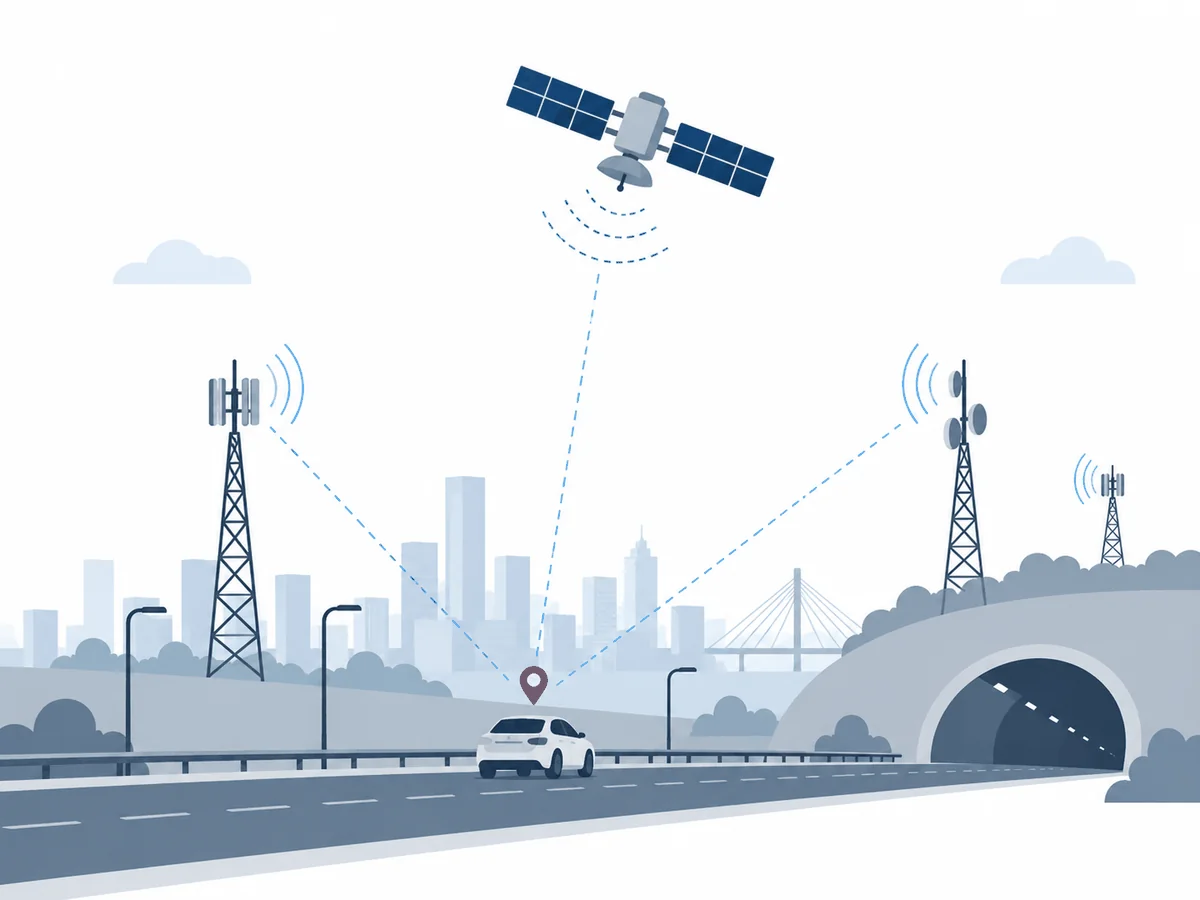
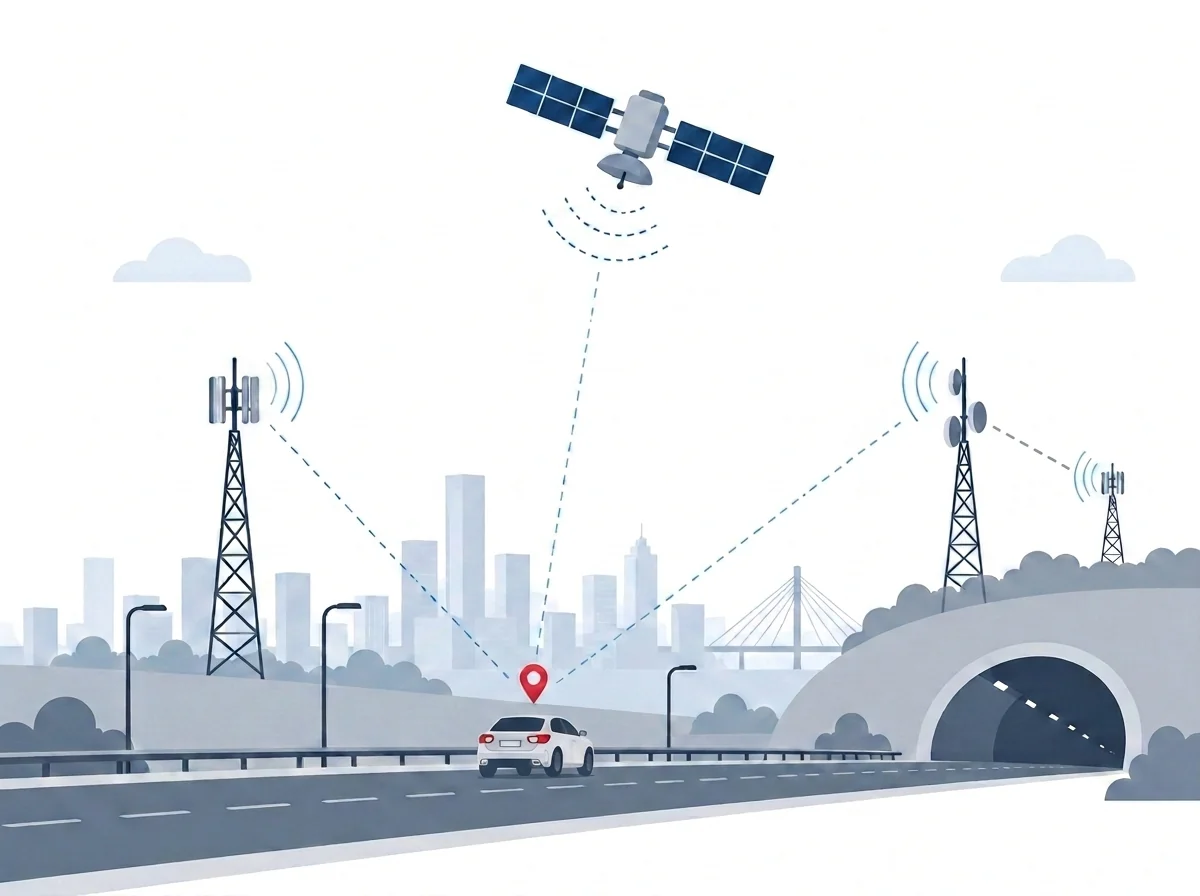
Home page: the updated road picture, with a line from the hilltop mast to the far one
Claude-Session: https://claude.ai/code/session_01C2WViiCTTax6EFyBE8Gxxc

diff --git a/docs/tr/index.html b/docs/tr/index.html
@@ -20,7 +20,7 @@
 <main>
 <h1>YERKON</h1>
 <p class="lead">YERKON, karayolunda konumun yabancı uydulara bağımlılığını azaltmak için bir öneri. Yol kenarında zaten duran direklere ve kabinlere ucuz birer yayın birimi takılıyor; araçtaki alıcı da çevresindeki birimlere olan mesafesini ölçerek nerede olduğunu kendi buluyor.</p>
-<section><figure><img src="../road.webp" width="1200" height="900" loading="lazy" decoding="async" alt="Yayın birimleri yol kenarında zaten duran noktalara takılıyor. Alıcı hem uyduyu hem yerdeki birimleri görüyor ve uydu kesilince yerdekilerle devam ediyor."><figcaption>Yayın birimleri yol kenarında zaten duran noktalara takılıyor. Alıcı hem uyduyu hem yerdeki birimleri görüyor ve uydu kesilince yerdekilerle devam ediyor.</figcaption></figure></section>
+<section><figure><img src="../road.webp" width="1200" height="896" loading="lazy" decoding="async" alt="Yayın birimleri yol kenarında zaten duran noktalara takılıyor. Alıcı hem uyduyu hem yerdeki birimleri görüyor ve uydu kesilince yerdekilerle devam ediyor."><figcaption>Yayın birimleri yol kenarında zaten duran noktalara takılıyor. Alıcı hem uyduyu hem yerdeki birimleri görüyor ve uydu kesilince yerdekilerle devam ediyor.</figcaption></figure></section>
 <section><h2>Ne öneriyor</h2><p>Ulaştırma ve Altyapı Bakanlığı&#x27;nın elektrik ve haberleşme hattına bağlı noktaları zaten var: akıllı ulaşım sistemi kabinleri, yol kenarı üniteleri, trafik ışıkları, tünel aydınlatması ve ücretli yol gişeleri. YERKON bu noktalara düşük maliyetli bir radyo yayın birimi ekler. Birim, kimliğini ve kurulumda ölçülmüş konumunu yayınlar. Bu noktaların seyrek kaldığı yerde yol boyundaki diğer direkler kullanılıyor: simülasyonda şehirde aydınlatma direkleri, kırsalda çoğunlukla elektrik dağıtım direkleri.</p><p>Bir yayın birimi 1.000 adetlik üretimde, kutusu, baskılı devresi ve dizgisiyle yaklaşık 1.400 lira. Hedef, AUS noktalarında zaten duran elektrik ve haberleşme altyapısının yeniden kullanılması; maliyeti aşağıda tutan da bu.</p><p>YERKON uydunun yerine geçmeyi hedeflemiyor. Uydu çalışırken iki konum yan yana duruyor ve ikisini karşılaştırmak bir aldatma saldırısını tespit etmeye yarayabilir.</p></section>
 <section><div class="figures"><div class="figure"><b>9,19 m</b><span>Şehir içi</span></div><div class="figure"><b>8,15 m</b><span>Kırsal</span></div><div class="figure"><b>1,08 m</b><span>Tünel</span></div></div><p class="under">Simülasyonun doldurduğu üç satır. Her biri, hataların yüzde 95&#x27;inin altında kaldığı yatay sapmayı gösteriyor ve her biri Ankara&#x27;nın gerçek arazisi üzerinde çalıştırıldı.</p></section>
 <section><h2 class="centred">Sayfalar</h2><div class="cards"><a class="card" href="../tr/sorun/"><b>Sorun</b><span>Bugün konum bulmanın, yol tarif etmenin ve saati hassas tutmanın neredeyse tamamı GPS, Galileo, GLONASS ve BeiDou&#x27;dan geliyor. Bu bağımlılık araç navigasyonuyla bitmiyor: acil çağrı ekipleri, kamu araç filoları, telefon şebekeleri, elektrik şebekesi ve kargo taşımacılığı da aynı dört sisteme bağlı.</span></a><a class="card" href="../tr/sistem/"><b>Sistem</b><span>Üç parça: ölçülmüş konumlarda duran yayın birimleri, konumunu kendi hesaplayan alıcılar ve kimlikleri güncel tutan merkezi yönetim sistemi.</span></a><a class="card" href="../tr/arge/"><b>AR-GE</b><span>Proje dört soruya cevap arıyor. Hiçbiri kapanmış değil ve her birinin altında ne yapılacağı yazılı.</span></a><a class="card" href="../tr/fayda/"><b>Fayda</b><span>Konumun hayati olduğu, ama uydu sinyalinin kesildiği, zayıfladığı ya da artık güvenilmediği yerlerde ulaşımın ve haberleşmenin durmaması için; sayfanın sonunda ticarileşmesi.</span></a><a class="card" href="../tr/sonuclar/"><b>Sonuçlar</b><span>On üç sistem, aynı sütunlarla yan yana. Koyu zeminli üç satırı simülasyon doldurdu; geri kalan on satır, o sistemlerin kendi kaynaklarının yayımladığı değerler. Bir sayıya ne yapıldığı, satırın sonundaki düğmeyle açılan kutuda ve sayfanın sonundaki dipnotlarda yazıyor. Boş hücre, o kaynağın bu sütuna uyan bir şey yayımlamadığı anlamına geliyor.</span></a><a class="card" href="../tr/maliyet/"><b>Maliyet</b><span>Tablodaki her maliyet hücresinin kalem kalem dökümü: hangi parça, kaça, kimden; hangi sayı, neye dayanarak. Bu sayfadaki sayılar modelden ve parça listesinden hesaplanıyor; biri değişince sayfa da değişiyor. Yalnız direk fiyatları tablosu kaynaklarından aktarıldı.</span></a><a class="card" href="../tr/mevzuat/"><b>Mevzuat</b><span>YERKON&#x27;un gücünü, piyasaya çıkışını ve bakım maliyetini belirleyen kurallar, resmî kaynaklarıyla. Güç, bakım ve kira için burada yazan her sınır modelde de aynen kullanılıyor; prototip cihazlarının frekans kuralları sahadaki denemeler için.</span></a><a class="card" href="../tr/simulasyon/"><b>Simülasyon</b><span>Simülasyon bu projenin bir parçası, tamamı değil. Tek bir işi vardı: karşılaştırma tablosundaki üç YERKON satırını tahminle değil, her sayısı kaynağına kadar izlenebilen bir modelle doldurmak. Sahada yapılmış bir ölçüm değildir. Yerleşimler maliyet yapılabilirliğini göstermek için; birim sayısı ve yeri değiştirilerek istenilen yerde istenilen doğruluğa ulaşılabilir.</span></a><a class="card" href="../tr/kaynaklar/"><b>Kaynaklar</b><span>Buradaki her sayının dayanağı altı türden biri: yayımlanmış bir fiyat ya da veri sayfası, bir ölçüm, bir standart ya da mevzuat, kaynaklı sayılardan yapılmış bir hesap, bir tasarım kararı ya da açıkça yazılmış bir varsayım.</span></a></div></section>

diff --git a/docs/en/index.html b/docs/en/index.html
@@ -20,7 +20,7 @@
 <main>
 <h1>YERKON</h1>
 <p class="lead">YERKON is a proposal for road transport to depend less on foreign satellites for position. A cheap broadcast unit goes onto masts and cabinets already standing by the road, and the receiver in a vehicle finds where it is by measuring its distance to the units around it.</p>
-<section><figure><img src="../road.webp" width="1200" height="900" loading="lazy" decoding="async" alt="The broadcast units go onto points already standing by the road. A receiver sees both the satellites and the units on the ground, and carries on with the ground ones when the satellites go."><figcaption>The broadcast units go onto points already standing by the road. A receiver sees both the satellites and the units on the ground, and carries on with the ground ones when the satellites go.</figcaption></figure></section>
+<section><figure><img src="../road.webp" width="1200" height="896" loading="lazy" decoding="async" alt="The broadcast units go onto points already standing by the road. A receiver sees both the satellites and the units on the ground, and carries on with the ground ones when the satellites go."><figcaption>The broadcast units go onto points already standing by the road. A receiver sees both the satellites and the units on the ground, and carries on with the ground ones when the satellites go.</figcaption></figure></section>
 <section><h2>What it proposes</h2><p>The Ministry of Transport and Infrastructure already has points on the power and communications network: intelligent transport cabinets, roadside units, traffic lights, tunnel lighting and toll gates. YERKON adds a low cost radio broadcast unit to those points. The unit broadcasts its identity and the position surveyed when it was installed. Where those points are sparse, the other poles along the road are used: in the simulation, lighting columns in town and mostly electricity distribution poles in open country.</p><p>A broadcast unit costs roughly 1.400 lira at a thousand units, box, printed board and assembly included. The aim is to reuse the power and communications already standing at intelligent transport points, and that is what keeps the cost down.</p><p>YERKON does not aim to replace the satellites. While they work, the two positions sit side by side, and comparing them can help detect a spoofing attack.</p></section>
 <section><div class="figures"><div class="figure"><b>9,19 m</b><span>Urban</span></div><div class="figure"><b>8,15 m</b><span>Rural</span></div><div class="figure"><b>1,08 m</b><span>Tunnel</span></div></div><p class="under">The three rows the simulation filled. Each shows the horizontal error that 95 per cent of the measurements stayed under, and each was run over real ground near Ankara.</p></section>
 <section><h2 class="centred">Pages</h2><div class="cards"><a class="card" href="../en/sorun/"><b>The problem</b><span>Nearly everything that finds a position, gives directions or keeps precise time today runs on GPS, Galileo, GLONASS and BeiDou. The dependency does not stop at vehicle navigation: emergency crews, public fleets, telephone networks, the electrical grid and freight all hang on the same four systems.</span></a><a class="card" href="../en/sistem/"><b>The system</b><span>Three parts: broadcast units standing at surveyed positions, receivers that work out their own position, and a management system that keeps the identities current.</span></a><a class="card" href="../en/arge/"><b>Research</b><span>The project is looking for answers to four questions. None of them is closed, and under each one is what will be done.</span></a><a class="card" href="../en/fayda/"><b>What it is for</b><span>So that transport and communications do not stop where position is vital and the satellite signal is cut, weakened or no longer trusted; how it is commercialised closes the page.</span></a><a class="card" href="../en/sonuclar/"><b>Results</b><span>Thirteen systems side by side under the same columns. The three shaded rows are the YERKON rows the simulation filled; the rest are what their own sources publish. What was done to a cell is in the box the button at the end of its row opens and in the notes at the foot of the page, and an empty cell means the source publishes nothing that fits that column.</span></a><a class="card" href="../en/maliyet/"><b>Cost</b><span>Every cost cell in the table, line by line: which part, for how much, from whom; which figure, resting on what. The numbers on this page are worked out from the model and the parts list, so when one changes the page does too. Only the pole price table is copied from its sources.</span></a><a class="card" href="../en/mevzuat/"><b>Regulation</b><span>The rules that set YERKON&#x27;s power, its route to market and its maintenance cost, with their official sources. Every limit on power, maintenance and rent written here is the one the model uses; the frequency rules for the prototype devices are for the field trials.</span></a><a class="card" href="../en/simulasyon/"><b>The simulation</b><span>The simulation is one part of this project rather than the whole of it. It had one job: to fill the three YERKON rows of the comparison table with a model whose every number can be traced, instead of with an estimate. It is not a field measurement. The placements are there to show cost feasibility; with more units, or units elsewhere, the accuracy wanted can be had where it is wanted.</span></a><a class="card" href="../en/kaynaklar/"><b>Sources</b><span>Every number here rests on one of six kinds of thing: a published price or datasheet, a measurement, a standard or regulation, a calculation from sourced figures, a design choice, or an assumption written down.</span></a></div></section>

diff --git a/docs/app.js b/docs/app.js
@@ -10,7 +10,7 @@
  * and a note says what followed, with a way back. Nothing stops to ask.
  */
 
-import { decimal, say, speak, speaks } from "./words.js?v=6ca6e0b07c";
+import { decimal, say, speak, speaks } from "./words.js?v=7c6db14867";
 
 /* The choices whose names are this page's to give.
  *
@@ -1734,9 +1734,9 @@ function wireControls() {
 
 /* ---------- the scene ---------- */
 
-import * as draw from "./draw.js?v=6ca6e0b07c";
-import * as flat from "./bore.js?v=6ca6e0b07c";
-import * as pick from "./map.js?v=6ca6e0b07c";
+import * as draw from "./draw.js?v=7c6db14867";
+import * as flat from "./bore.js?v=7c6db14867";
+import * as pick from "./map.js?v=7c6db14867";
 
 const container = document.getElementById("scene");
 const canvas = document.createElement("canvas");

diff --git a/docs/calistir/index.html b/docs/calistir/index.html
@@ -8,7 +8,7 @@
 <link rel="preconnect" href="https://fonts.googleapis.com">
 <link rel="preconnect" href="https://fonts.gstatic.com" crossorigin>
 <link rel="stylesheet" href="https://fonts.googleapis.com/css2?family=Inter:wght@400;500;600;700&amp;display=swap">
-<link rel="stylesheet" href="style.css?v=6ca6e0b07c">
+<link rel="stylesheet" href="style.css?v=7c6db14867">
 </head>
 <body>
 
@@ -434,7 +434,7 @@
 
 <div id="status"></div>
 
-<script src="local.js?v=6ca6e0b07c"></script>
-<script type="module" src="app.js?v=6ca6e0b07c"></script>
+<script src="local.js?v=7c6db14867"></script>
+<script type="module" src="app.js?v=7c6db14867"></script>
 </body>
 </html>

diff --git a/docs/sim-worker.js b/docs/sim-worker.js
@@ -28,7 +28,7 @@ const ready = (async () => {
   // nothing about the network.
   if (!pyodide.loadedPackages.numpy) throw new Error("numpy could not be loaded");
   stage("package");
-  const response = await fetch("yerkon.zip?v=6ca6e0b07c");
+  const response = await fetch("yerkon.zip?v=7c6db14867");
   if (!response.ok) throw new Error("yerkon.zip: " + response.status);
   pyodide.unpackArchive(await response.arrayBuffer(), "zip",
                         { extractDir: "/home/pyodide/lib" });

diff --git a/docs/local.js b/docs/local.js
@@ -47,7 +47,7 @@
   const show = () => document.body.append(cover);
   if (document.body) show(); else addEventListener("DOMContentLoaded", show);
 
-  const worker = new Worker("sim-worker.js?v=6ca6e0b07c", { type: "module" });
+  const worker = new Worker("sim-worker.js?v=7c6db14867", { type: "module" });
   // A worker that dies while loading says nothing on its own, and the
   // cover would promise a load that is never coming.
   worker.onerror = event => {

diff --git a/docs/bore.js b/docs/bore.js
@@ -12,7 +12,7 @@
  * a distance to one side of it, so a bore that bends is drawn straight.
  */
 
-import { BANDS, RISING, bandOf } from "./draw.js?v=6ca6e0b07c";
+import { BANDS, RISING, bandOf } from "./draw.js?v=7c6db14867";
 
 /* What part of the bore is on screen, in metres along it. */
 export const bore = { start: 0, span: 0, length: 0 };

diff --git a/src/yerkon/viewer/pages.py b/src/yerkon/viewer/pages.py
@@ -3832,7 +3832,7 @@ CARRIED = ("site.css", "theme.js", "road.webp", "gnss.webp",
 #: 1,5 MB as PNG and 216 KB as WebP at quality 85, with the lettering in
 #: the diagrams still sharp.
 PICTURE_SIZES = {
-    "road.webp": (1200, 900),
+    "road.webp": (1200, 896),
     "gnss.webp": (700, 701),
     "architecture.webp": (1200, 800),
     "simulator.webp": (1600, 1000),
